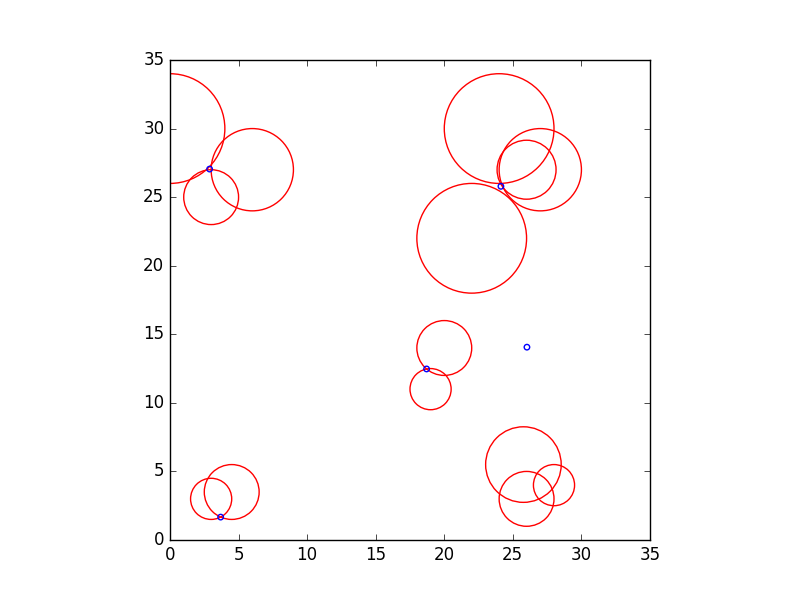
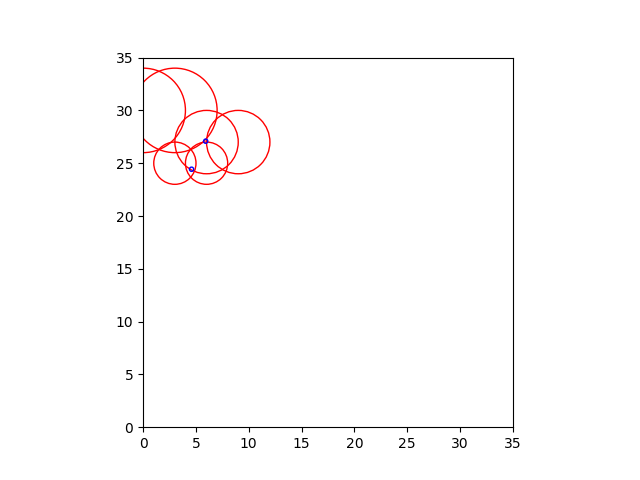
misc

diff --git a/multiple.py b/multiple.py
@@ -39,8 +39,8 @@ def opt_func_dec(x_list, r_list, lat_id_list):
     # https://stackoverflow.com/questions/4582521/python-creating-dynamic-functions
     def loss_func(p):
         # | ||p-x}| - r |^2
-        l = np.sum(
-            [single_loss(p, x, r) for x, r in zip(x_array_list, r_list)]
+        l = sum(
+            (single_loss(p, x, r) for x, r in zip(x_array_list, r_list))
         )
 
         return l
@@ -75,11 +75,11 @@ def multiple_multilateration(circles_orig, xlim=(0,10), ylim=(0,10),
     p0_example = np.array([2, 2]).T
     # print(loss_func(np.array([0, 0]).T))
 
-    def get_lims(circles):
-        max_x = xlim[1]
-        min_x = xlim[0]
-        max_y = ylim[1]
-        min_y = ylim[0]
+    def get_local_lims(circles):
+        max_x = -sys.maxsize
+        min_x = +sys.maxsize
+        max_y = -sys.maxsize
+        min_y = +sys.maxsize
         for (x, y), r, lat_cluster_id in circles:
             max_x = max(x + r, max_x)
             min_x = min(x - r, min_x)
@@ -100,7 +100,7 @@ def multiple_multilateration(circles_orig, xlim=(0,10), ylim=(0,10),
 
         # Get coordinate limits of the cluster's data
         if use_local_lims:
-            cluster_xlim, cluster_ylim = get_lims(circles)
+            cluster_xlim, cluster_ylim = get_local_lims(circles)
         else:
             cluster_xlim, cluster_ylim = xlim, ylim
 
@@ -121,7 +121,7 @@ def multiple_multilateration(circles_orig, xlim=(0,10), ylim=(0,10),
         # print(min_fun_vals)
         return min_fun_vals
 
-    def argmin(circle, min_fun_vals):
+    def argmin_p(circle, min_fun_vals):
         min_val = sys.maxsize
         second_min_lat_cluster = sys.maxsize
         min_lat_cluster = None
@@ -137,11 +137,28 @@ def multiple_multilateration(circles_orig, xlim=(0,10), ylim=(0,10),
 
         return min_lat_cluster, second_min_lat_cluster
 
-    def reassign(circles, min_fun_vals, epsilon=0.25):
+    def argmax_x(min_fun_val, circles):
+        max_val = -sys.maxsize
+        max_delocalized_circle = None
+        max_delocalized_circle_index = None
+        p = min_fun_val['p']
+
+        for i, ((x, y), r, lat_cluster_id) in enumerate(circles):
+            # confusing notation :(
+            x = np.array([x, y]).T
+            loss = single_loss(p, x, r)
+            if loss > max_val:
+                max_val = loss
+                max_delocalized_circle = circles[i]
+                max_delocalized_circle_index = i
+
+        return max_delocalized_circle, max_delocalized_circle_index
+
+    def reassign_circle_clusters(circles, min_fun_vals, epsilon=0.25):
 
         for i, ((x, y), r, lat_cluster_id) in enumerate(circles):
             # second_min_lat_cluster unused - might be useful later for prob. epsilon swap
-            min_lat_cluster, _ = argmin(circles[i], min_fun_vals)
+            min_lat_cluster, _ = argmin_p(circles[i], min_fun_vals)
             circles[i][2] = min_lat_cluster
 
         return +1
@@ -182,7 +199,7 @@ def multiple_multilateration(circles_orig, xlim=(0,10), ylim=(0,10),
         # circles_list: list of lateration clusters with circles_copy in them
         print('[multiple_multilateration] min_fun_vals_list', min_fun_vals_list)
         plot_circles(circles_copy, min_fun_vals_list, xlim=xlim, ylim=ylim, iter=i, clear_dir_on_new=False)
-        reassign(circles_copy, min_fun_vals_list)
+        reassign_circle_clusters(circles_copy, min_fun_vals_list)
 
     # print(circles_copy)
     # print(min_fun_vals_list)
@@ -235,7 +252,8 @@ if __name__ == '__main__':
 
         [[28, 4], 1.5, None],
         [[26, 3], 2, None],
-        [[25.77, 5.5], 2.755, None],
+        [[25.77, 6.8], 2.7, None],
+        # [[25.77, 5.5], 2.755, None],
 
         [[3, 3], 1.5, None],
         [[4.5, 3.5], 2, None],
@@ -245,21 +263,32 @@ if __name__ == '__main__':
     ]
 
     # circles_orig = [
-    #     [[3, 4], 1.2, None],
-    #     [[3, 7], 3, None],
-    #     [[5, 4], 1, None],
-    #     [[0, 0], 5.66, None],
-    #
-    #     [[8, 6], 1, None],
-    #     [[7.5, 6], 1.5, None],
+    #     [[15, 15], 6.5, None],
+    #     [[12, 15], 2, None],
+    #     [[17, 15], 3, None],
+    #     [[24, 17], 3.5, None],
+
+    #     # [[8, 6], 1, None],
+    #     # [[7.5, 6], 1.5, None],
     # ]
 
-    num_lat_clusters = 5
+    circles_orig = [
+        [[6, 27], 3, None],
+        [[3, 25], 2, None],
+        [[0, 30], 4, None],
+
+        [[9, 27], 3, None],
+        [[6, 25], 2, None],
+        [[3, 30], 4, None],
+    ]
+
+
+    num_lat_clusters = 2
     for i, circle in enumerate(circles_orig):
         circle[2] = (i+2) % num_lat_clusters
 
     best_fun_vals_list = multiple_multilateration(circles_orig, xlim=xlim, ylim=ylim, num_lat_clusters=num_lat_clusters,
-                                                  opt_iters=15, recluster_iters=8)
+                                                  opt_iters=15, recluster_iters=12)
 
     plot_circles(circles_orig, best_fun_vals_list, xlim=xlim, ylim=ylim)
     print(best_fun_vals_list)

diff --git a/circle_intersection.py b/circle_intersection.py
@@ -1,0 +1,32 @@
+import math
+import numpy as np
+
+
+def get_circle_intersections(c0, c1):
+    # https://stackoverflow.com/questions/3349125/circle-circle-intersection-points
+    (x0, y0), r0, _ = c0
+    (x1, y1), r1, _ = c1
+
+    d = math.sqrt((x0-x1)**2 + (y0-y1)**2)
+
+    if d > (r0 + r1):
+        return None, 'seperate'
+    elif d < abs(r0 - r1):
+        return None, 'contained'
+    elif d == 0 and r0 == r1:
+        return None, 'coincident'
+
+    a = (r0**2 - r1**2 + d**2) / (2*d)
+    h = math.sqrt(r0**2 - a**2)
+
+    p2x = x0 + a*(x1 - x0) / d
+    p2y = y0 + a*(y1 - y0) / d
+
+    p3x_top = p2x + h*(y1 - y0 )/ d
+    p3y_top = p2y + h*(x1 - x0) / d
+
+    p3x_bot = p2x + h * (y1 - y0) / d
+    p3y_bot = p2y + h * (x1 - x0) / d
+
+    return (np.array([p3x_top, p3y_top]).T,
+            np.array([p3x_bot, p3y_bot]).T)

diff --git a/plot_circles.py b/plot_circles.py
@@ -31,9 +31,15 @@ def plot_circles(circles, min_fun_vals, xlim=(0, 10), ylim=(0, 10), savefolder='
 
     if min_fun_vals is not None:
         for min_fun_val in min_fun_vals:
-            circle_plots.append(
-                plt.Circle(min_fun_val['p'], 0.2, color='blue', fill=False)
-            )
+            if isinstance(min_fun_val['p'], list):
+                for p in min_fun_val['p']:
+                    circle_plots.append(
+                        plt.Circle(p, 0.2, color='blue', fill=False)
+                    )
+            else:
+                circle_plots.append(
+                    plt.Circle(min_fun_val['p'], 0.2, color='blue', fill=False)
+                )
 
     fig, ax = plt.subplots()
     ax.set_xlim(xlim)
